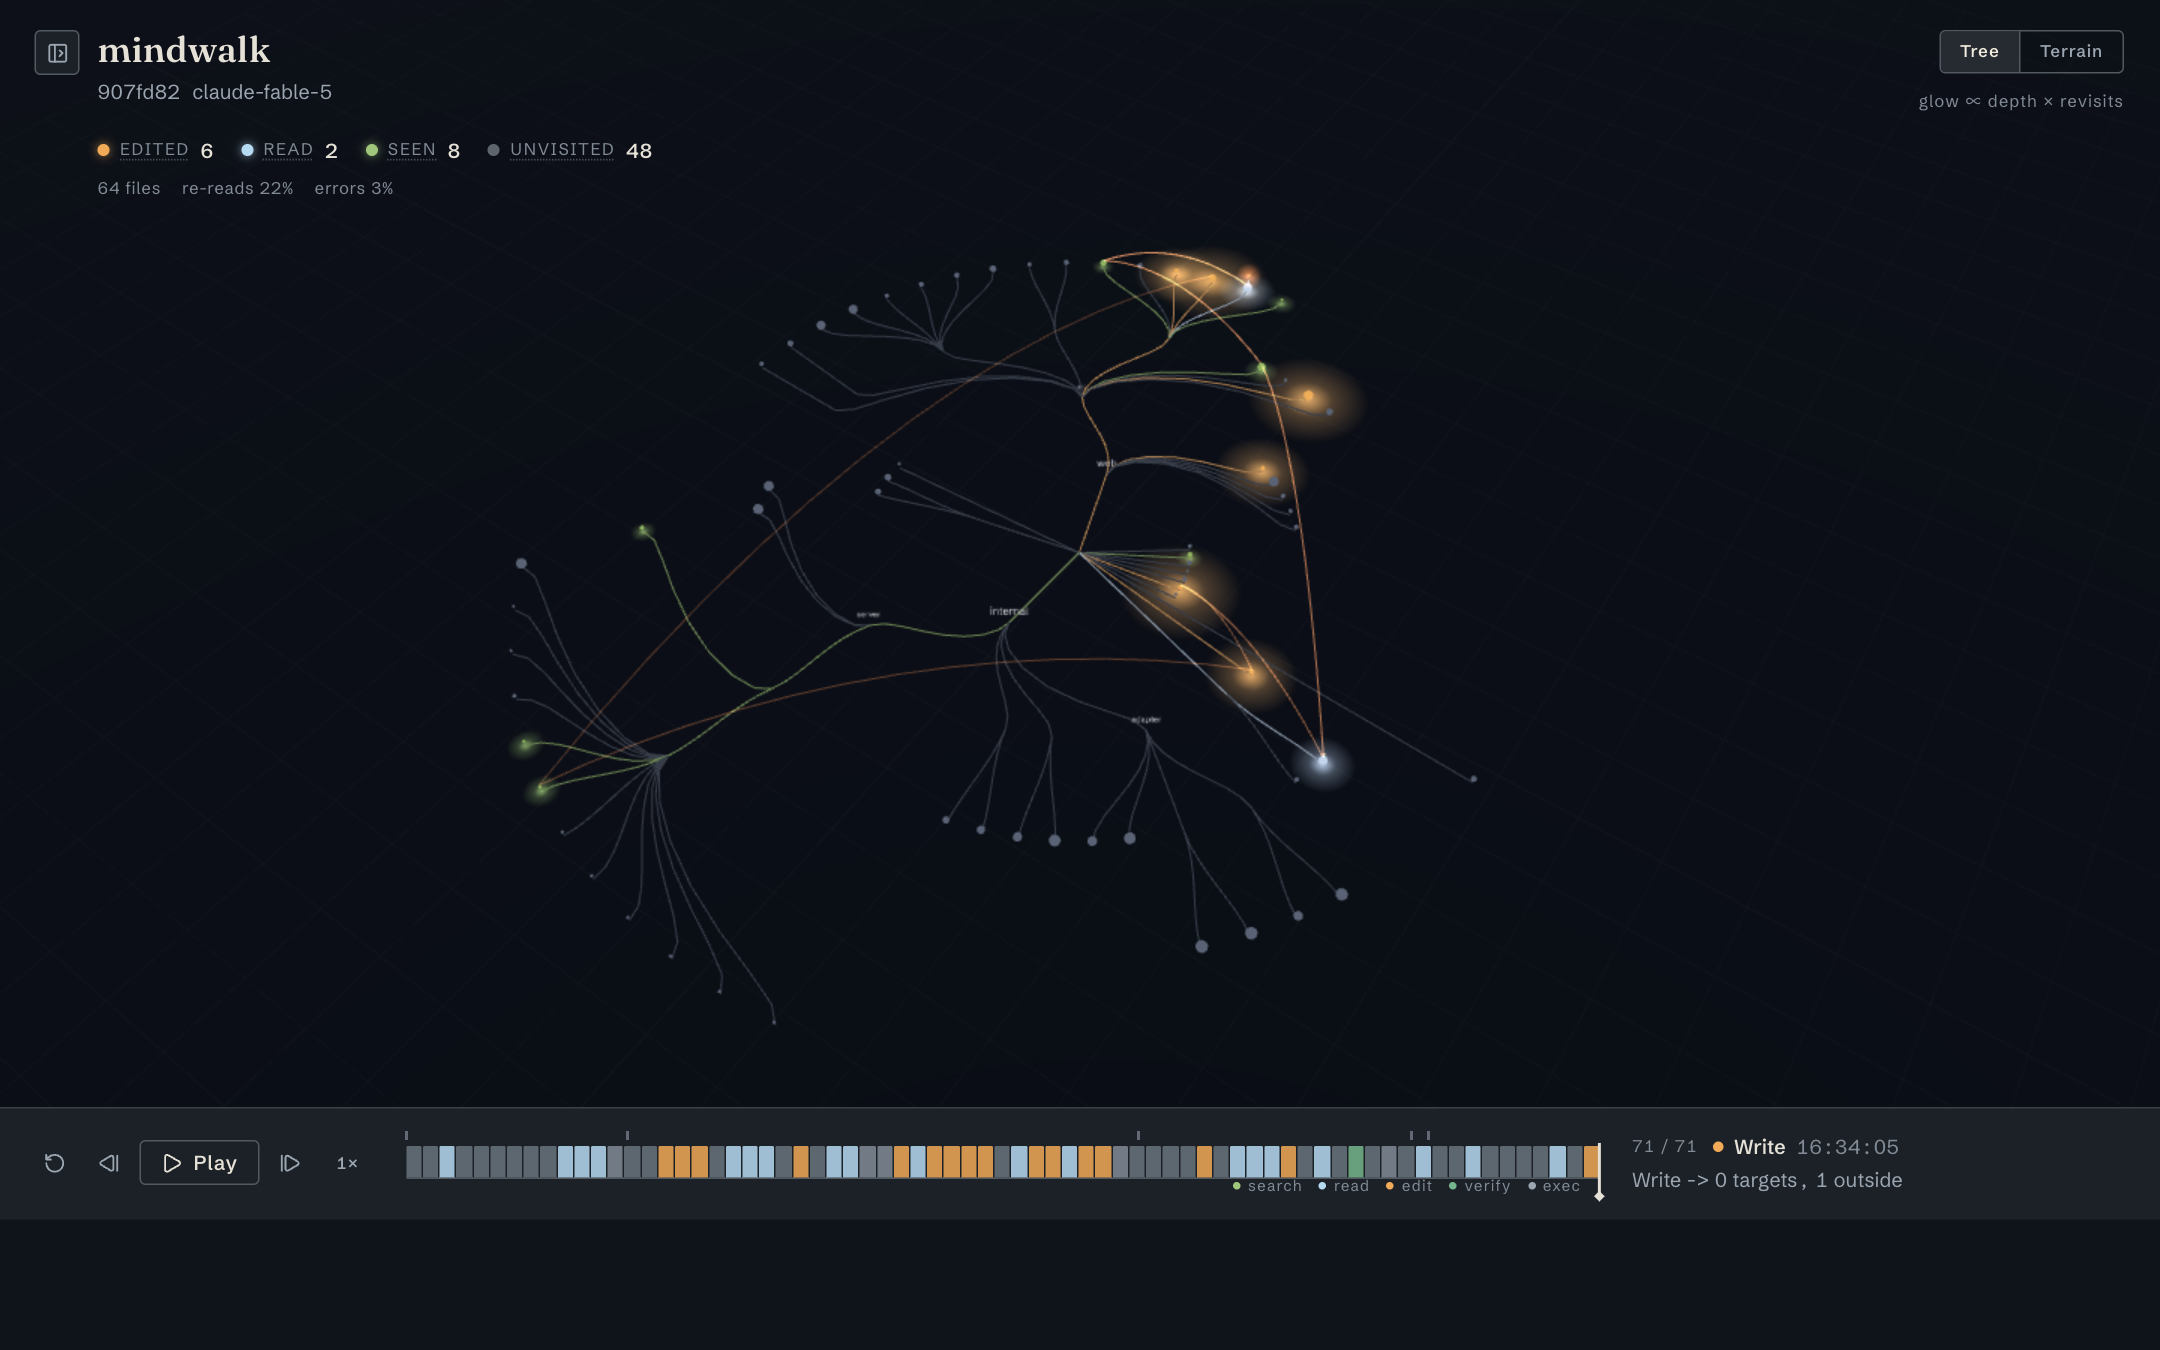
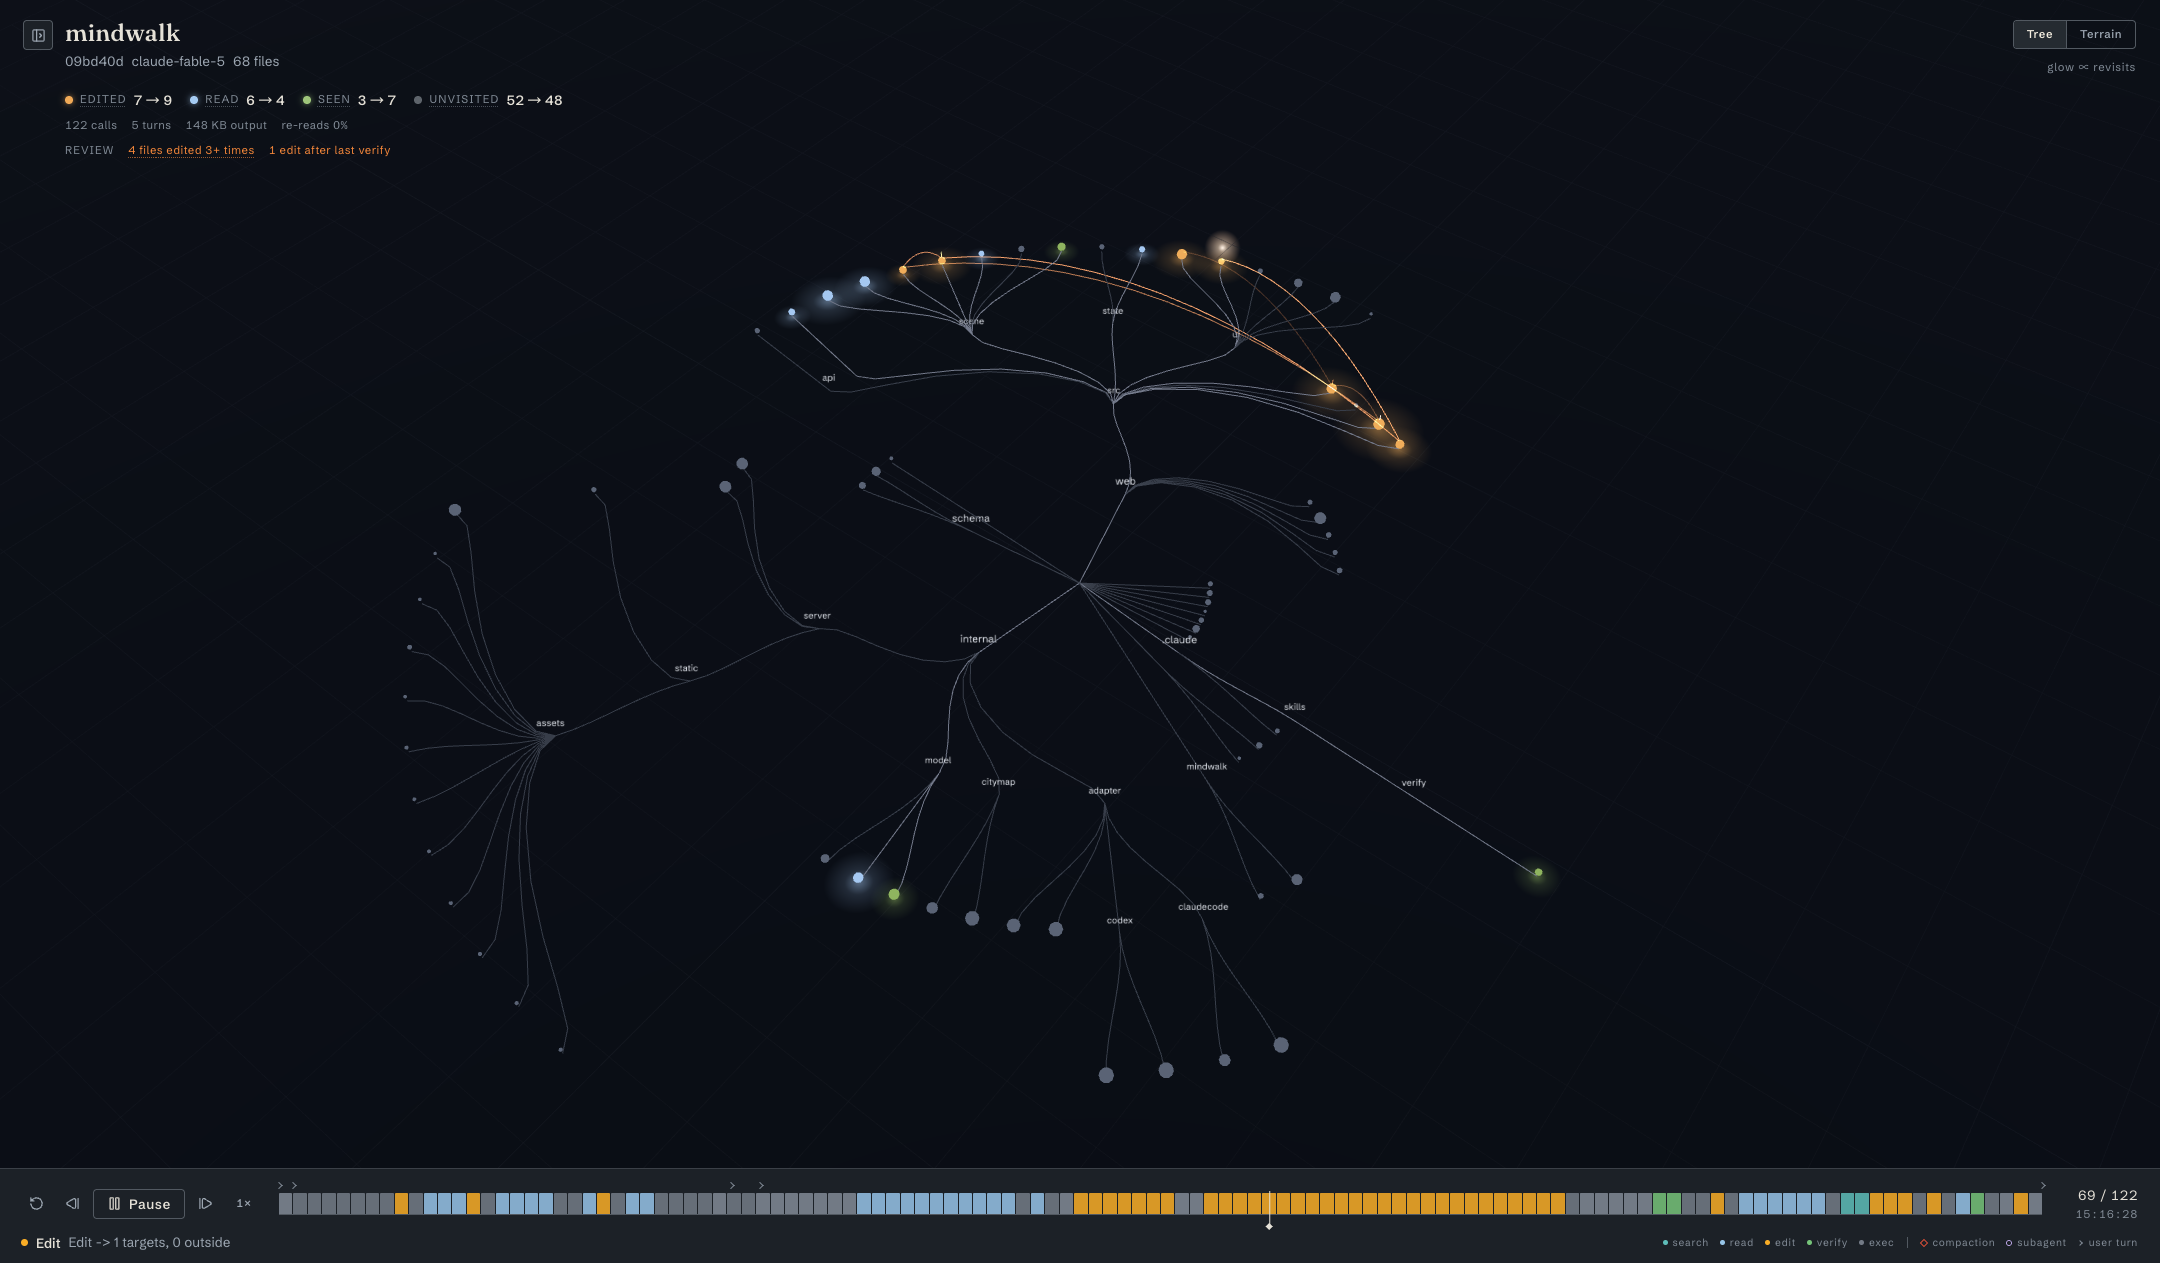
docs: retake README screenshots and document the reworked deck
Retake the hero shot mid-playback on the current build so the ember
trails and the new deck (cool/warm action spectrum, mark lane, full
key) are visible, and add a terrain-view companion shot. Expand
"Reading the picture" with the timeline marks, the inspector, and the
HUD review strip.

diff --git a/README.md b/README.md
@@ -35,10 +35,22 @@ mindwalk trace <session> [-o out]           write the normalized trace JSON
   for glow.
 - **Touch states** — each file keeps the deepest touch it received: seen
   (moss green), read (moon white), edited (warm amber), unvisited (dark). The
-  HUD counts them live, along with re-read and error rates.
-- **Playback deck** — scrub or play the session; the strip under the playhead
-  spells out every event's action (search / read / edit / verify / exec), and
-  recent transitions draw ember trails between files.
+  HUD counts them live and folds friction signals — error rate, files churned
+  3+ times, edits after the last verify — into a review strip.
+- **Playback deck** — scrub or play the session. The strip is a bucketed
+  histogram of the whole run, each bar colored by its dominant action on a
+  cool/warm spectrum: observation stays cool (teal search, moon-blue read,
+  slate exec), mutation glows warm (sodium-amber edit, green verify), so
+  editing phases jump out of the background hum at a glance. Recent
+  transitions draw ember trails between files on the map.
+- **Timeline marks** — the lane above the strip carries the session's
+  structure: `◇` context compactions, `○` subagent launches, `›` user turns
+  (one per typed instruction). Every mark is a click-to-jump target, and the
+  key under the strip decodes all of it.
+- **Inspector** — click any file to pin its touch facts and per-event visit
+  history; clicking a visit row jumps the playhead to that moment.
+
+![the same session on the terrain view](assets/screenshot-terrain.png)
 
 Keyboard: `Space` play/pause · `←`/`→` step (`⇧` ×10) · `Home`/`End` jump to
 the ends · `S` cycle speed · `E` next edit · `X` next error · `M` next mark ·